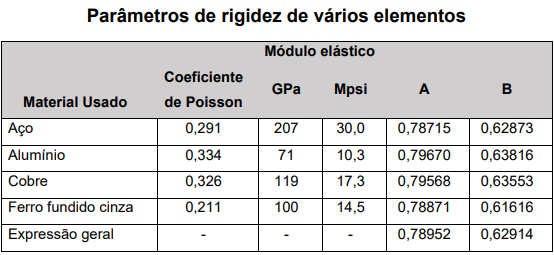
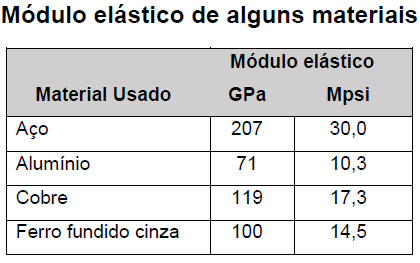
Finais 981526

diff --git a/sistema/interface.js b/sistema/interface.js
@@ -217,7 +217,7 @@ window.addEventListener("load", function () {
             /**
              * Aqui não entendi o que devo fazer para continuar...!
              */
-            __trocaSubDisplay("Selecione a espessura (tipo) da arruela");
+            __trocaSubDisplay("Selecione o tipo da arruela");
             __showHide("telaSelecaoTipoArruela");
             __showHide("telaSelecaoQtdArroelas");
 
@@ -298,14 +298,14 @@ window.addEventListener("load", function () {
                     if (calculo.diametro == tdp_m[i].diametro) {
                         for (let j = 0; j < tdp_m[i].estilo.length; j++) {
                             if (tdp_m[i].estilo[j] != null) {
-                                $("#select-tipo-porca").append("<option data-porca='" + JSON.stringify(tdp_m[i].estilo[j]) + "'>Estilo " + (j + 1) + " -> W:" + tdp_m[i].estilo[j].wPorca + "mm | H:" + tdp_m[i].estilo[j].hPorca + "mm</option>");
+                                $("#select-tipo-porca").append("<option data-porca='" + JSON.stringify(tdp_m[i].estilo[j]) + "'>Estilo " + (j + 1) + " -> W: " + tdp_m[i].estilo[j].wPorca + "mm | H: " + tdp_m[i].estilo[j].hPorca + "mm</option>");
                             }
                         }
                     }
                 }
                 break;
             case 'in':
-                __trocaSubDisplay("Confira os dados pré-selecionados na tabela padrão.");
+                __trocaSubDisplay("Confira as dimensões da porca");
                 __showHide("container-info-tipo-porca");
 
                 for (let i = 0; i < tdp_in.length; i++) {
@@ -395,7 +395,7 @@ window.addEventListener("load", function () {
         __trocaSubDisplay("Escolha a classe/resistência mínima de prova (Sp).");
 
         if (calculo.unidade == 'in') {
-            __trocaSubDisplay("Escolha a norma/especificação. <br> Escolha a classe /resistência mínima de prova (Sp).")
+            __trocaSubDisplay("Escolha a norma/especificação. | Escolha a classe /resistência mínima de prova (Sp).")
         }
 
         if (calculo.unidade == 'in' && calculo.planoResistencia == 'tabelada') {
@@ -451,7 +451,7 @@ window.addEventListener("load", function () {
 
     document.getElementById("btProsseguirCalculoFinal").addEventListener("click", function (event) {
 
-        __trocaSubDisplay("Resultados Finais");
+        __trocaSubDisplay("Resultado resumido");
         __showHide("telaCalculoFinal");
         __showHide("telaTipoConexao");
 
@@ -620,12 +620,13 @@ window.addEventListener("load", function () {
         if (calculo.unidade == 'm') {
             
 
-            $("#finalResumidoContainer").append("<strong>Comprimento mínimo do parafuso: </strong>" + resultL + "mm");
-            $("#finalResumidoContainer").append("<br><strong>Rigidez do parafuso: </strong>" + resultRigidez + "MN/m");
-            $("#finalResumidoContainer").append("<br><strong>Rigidez dos Membros: </strong>" + km + "MN/m");
-            $("#finalResumidoContainer").append("<br><strong>Fator de segurança ao escoamento: </strong>" + resultNp);
-            $("#finalResumidoContainer").append("<br><strong>Fator de segurança baseado na abertura da junta: </strong>" + resultNo);
-
+            $("#finalResumidoContainer").append("<strong>Comprimento mínimo do parafuso (L): </strong>" + resultL + "mm");
+            $("#finalResumidoContainer").append("<br><strong>Rigidez do parafuso (Kb): </strong>" + resultRigidez + "MN/m");
+            $("#finalResumidoContainer").append("<br><strong>Rigidez dos Membros (Km): </strong>" + km + "MN/m");
+            $("#finalResumidoContainer").append("<br><strong>Fator de segurança ao escoamento (Np): </strong>" + resultNp);
+            $("#finalResumidoContainer").append("<br><strong>Fator de segurança baseado na abertura da junta (No): </strong>" + resultNo);
+            
+            
 
             $("#finalCompletoDataContainer").append("<h4>Dados de entrada</h4>");
             $("#finalCompletoDataContainer").append("<strong>Sistema de unidades: </strong>" + resultUnidade);
@@ -633,16 +634,16 @@ window.addEventListener("load", function () {
             $("#finalCompletoDataContainer").append("<strong>Diâmetro do furo (df): </strong>" + calculo.furo + "mm<br>");
             $("#finalCompletoDataContainer").append("<strong>Área de tensão de tração do parafuso (At): </strong>" + calculo.AreaRosqueada + "mm²<br>");
             $("#finalCompletoDataContainer").append("<strong>W do parafuso: </strong>" + resultWparafuso + "mm<br>");
-            $("#finalCompletoDataContainer").append("<strong>W da porca: </strong>" + resultWporca + "mm<br>");
+            $("#finalCompletoDataContainer").append("<br><strong>W da porca: </strong>" + resultWporca + "mm<br>");
             $("#finalCompletoDataContainer").append("<strong>H da porca: </strong>" + resultHporca + "mm<br>");
-            $("#finalCompletoDataContainer").append("<strong>Quantidade de placas: </strong>" + calculo.qtdPlacas + "<br>");
+            $("#finalCompletoDataContainer").append("<br><strong>Quantidade de placas: </strong>" + calculo.qtdPlacas + "<br>");
             for (let i = 0; i < parseInt(calculo.qtdPlacas); i++) {
-                $("#finalCompletoDataContainer").append("<strong>PLACA </strong>" + (i + 1) + " <strong>TIPO:</strong> " + calculo.placa[i].tipo + " <strong>ESPESSURA: </strong>" + calculo.placa[i].espessura);
+                $("#finalCompletoDataContainer").append("<strong>Placa: </strong>" + (i + 1) + "<strong> | Módulo de elásticidade:</strong> " + calculo.placa[i].tipo + "GPa <strong> | Espessura: </strong>" + calculo.placa[i].espessura + "mm<br>");
             }
             $("#finalCompletoDataContainer").append("<br><strong>Posição da(s) arruela(s): </strong>" + resultposArruela);
             $("#finalCompletoDataContainer").append("<br><strong>Quantida de arruela: </strong>" + calculo.qtdArruelas);
             $("#finalCompletoDataContainer").append("<br><strong>Espessura total da(s) arruela(s): </strong>" + calculo.tipoArruela + "mm<br>");
-            $("#finalCompletoDataContainer").append("<strong>Quantidade de parafuso: </strong>" + calculo.quantidadeParafusos);
+            $("#finalCompletoDataContainer").append("<br><strong>Quantidade de parafuso: </strong>" + calculo.quantidadeParafusos);
             $("#finalCompletoDataContainer").append("<br><strong>Carga externa total de tração aplicada à junta (Ptotal): </strong>" + calculo.cargaExternaTotal + "N<br>");
             $("#finalCompletoDataContainer").append("<strong>Forma de obter o valor da resistência de prova: </strong>" + resultplanResist);
             $("#finalCompletoDataContainer").append("<br><strong>Resistência mínima de prova (Sp): </strong>" + resultSp + "MPa<br>");
@@ -660,25 +661,13 @@ window.addEventListener("load", function () {
             $("#finalCompletoDataContainer").append("<strong><br>Rigidez do parafuso (Kb): </strong>" + resultRigidez + "MN/m<br>");
 
             //Incluir os valores dos k(s), t(s), x(s) localizada na função de rigidez dos membros
-            $("#finalCompletoDataContainer").append("<br><strong>t1: </strong>" + t1 + "mm<br>");
-            $("#finalCompletoDataContainer").append("<strong>t2: </strong>" + t2 + "mm<br>");
-            $("#finalCompletoDataContainer").append("<strong>t3: </strong>" + t3);
-            $("#finalCompletoDataContainer").append("<br><strong>t4: </strong>" + t4);
-            $("#finalCompletoDataContainer").append("<br><strong>t5: </strong>" + t5);
             $("#finalCompletoDataContainer").append("<br><strong>tt: </strong>" + tt);
-            $("#finalCompletoDataContainer").append("<br><strong>x2: </strong>" + x2);
-            $("#finalCompletoDataContainer").append("<br><strong>x3: </strong>" + x3);
-            $("#finalCompletoDataContainer").append("<br><strong>x4: </strong>" + x4);
-            $("#finalCompletoDataContainer").append("<br><strong>D1: </strong>" + d1 + "mm");
-            $("#finalCompletoDataContainer").append("<br><strong>D2: </strong>" + d2 + "mm");
-            $("#finalCompletoDataContainer").append("<br><strong>D3: </strong>" + d3);
-            $("#finalCompletoDataContainer").append("<br><strong>D4: </strong>" + d4);
-            $("#finalCompletoDataContainer").append("<br><strong>D5: </strong>" + d5);
-            $("#finalCompletoDataContainer").append("<br><strong>k1: </strong>" + k1 + "MN/m");
-            $("#finalCompletoDataContainer").append("<br><strong>k2: </strong>" + k2 + "MN/m");
-            $("#finalCompletoDataContainer").append("<br><strong>k3: </strong>" + k3);
-            $("#finalCompletoDataContainer").append("<br><strong>k4: </strong>" + k4);
-            $("#finalCompletoDataContainer").append("<br><strong>k5: </strong>" + k5);
+            $("#finalCompletoDataContainer").append("<br><strong>t1: </strong>" + t1 + "mm" + "<strong> | x1: </strong>-" + "<strong> | D1: </strong>" + d1 + "mm" + "<strong> | K1: </strong>" + k1 + "MN/m");
+            $("#finalCompletoDataContainer").append("<br><strong>t2: </strong>" + t2 + "mm" + "<strong> | x2: </strong>" + x2 + "<strong> | D2: </strong>" + d2 + "mm" + "<strong> | K2: </strong>" + k2 + "MN/m");
+            $("#finalCompletoDataContainer").append("<br><strong>t3: </strong>" + t3 + "<strong> | x3: </strong>" + x3 + "<strong> | D3: </strong>" + d3 + "<strong> | K3: </strong>" + k3);
+            $("#finalCompletoDataContainer").append("<br><strong>t4: </strong>" + t4 + "<strong> | x4: </strong>" + x4 + "<strong> | D4: </strong>" + d4 + "<strong> | K4: </strong>" + k4);
+            $("#finalCompletoDataContainer").append("<br><strong>t5: </strong>" + t5 + "<strong> | x5: </strong>-" + "<strong> | D5: </strong>" + d5 + " | <strong> | K5: </strong>" + k5);
+
             $("#finalCompletoDataContainer").append("<br><strong>Rigidez dos Membros (Km): </strong>" + km + "MN/m");
             $("#finalCompletoDataContainer").append("<br><br><strong>Carga de prova (Fp): </strong>" + resultFp + "N");
             $("#finalCompletoDataContainer").append("<br><strong>Pré-carga (Fi): </strong>" + resultFi + "N");
@@ -693,53 +682,59 @@ window.addEventListener("load", function () {
 
 
 
-            $("#finalResumidoContainer").append("<strong>Comprimento mínimo do parafuso: </strong>" + resultL + "in");
-            $("#finalResumidoContainer").append("<br><strong>Rigidez do parafuso: </strong>" + resultRigidez + "Mlbf/in");
-            $("#finalResumidoContainer").append("<br><strong>Rigidez dos Membros: " + km + "Mlbf/in");
-            $("#finalResumidoContainer").append("<br><strong>Fator de segurança ao escoamento: </strong>" + resultNp);
-            $("#finalResumidoContainer").append("<br><strong>Fator de segurança baseado na abertura da junta: " + resultNo);
+            $("#finalResumidoContainer").append("<strong>Comprimento mínimo do parafuso (L): </strong>" + resultL + "in");
+            $("#finalResumidoContainer").append("<br><strong>Rigidez do parafuso (Kb): </strong>" + resultRigidez + "Mlbf/in");
+            $("#finalResumidoContainer").append("<br><strong>Rigidez dos Membros (Km): </strong>" + km + "Mlbf/in");
+            $("#finalResumidoContainer").append("<br><strong>Fator de segurança ao escoamento (Np): </strong>" + resultNp);
+            $("#finalResumidoContainer").append("<br><strong>Fator de segurança baseado na abertura da junta (No): </strong>" + resultNo);
 
 
             $("#finalCompletoDataContainer").append("<h4>Dados de entrada</h4>");
-            $("#finalCompletoDataContainer").append("<br><strong>Sistema de unidades: " + resultUnidade + "</strong>");
-            $("#finalCompletoDataContainer").append("<br><strong>Diâmetro do parafuso (d): " + calculo.diametro + "in</strong>");
-            $("#finalCompletoDataContainer").append("<br><strong>Diâmetro do furo (df): " + calculo.furo + "in</strong>");
-            $("#finalCompletoDataContainer").append("<br><strong>Área de tensão de tração do parafuso (At): " + calculo.AreaRosqueada + "in²</strong>");
-            $("#finalCompletoDataContainer").append("<br><strong>W do parafuso: " + resultWparafuso + "in</strong>");
-            $("#finalCompletoDataContainer").append("<br><strong>W da porca: " + resultWporca + "in </strong>");
-            $("#finalCompletoDataContainer").append("<br><strong>H da porca: " + resultHporca + "in</strong>");
-            $("#finalCompletoDataContainer").append("<br><strong>Quantidade de placas: " + calculo.qtdPlacas + "</strong>");
+            $("#finalCompletoDataContainer").append("<strong>Sistema de unidades: </strong>" + resultUnidade);
+            $("#finalCompletoDataContainer").append("<br><strong>Diâmetro do parafuso (d): </strong>" + calculo.diametro + "in");
+            $("#finalCompletoDataContainer").append("<br><strong>Diâmetro do furo (df): </strong>" + calculo.furo + "in");
+            $("#finalCompletoDataContainer").append("<br><strong>Área de tensão de tração do parafuso (At): </strong>" + calculo.AreaRosqueada + "in²");
+            $("#finalCompletoDataContainer").append("<br><strong>W do parafuso: </strong>" + resultWparafuso + "in");
+            $("#finalCompletoDataContainer").append("<br><br><strong>W da porca: </strong>" + resultWporca + "in");
+            $("#finalCompletoDataContainer").append("<br><strong>H da porca: </strong>" + resultHporca + "in");
+            $("#finalCompletoDataContainer").append("<br><br><strong>Quantidade de placas: </strong>" + calculo.qtdPlacas + "<br>");
             for (let i = 0; i < parseInt(calculo.qtdPlacas); i++) {
-                $("#finalCompletoDataContainer").append("<br><strong>PLACA </strong>" + (i + 1) + " <strong>TIPO:</strong> " + calculo.placa[i].tipo + " <strong>ESPESSURA: </strong>" + calculo.placa[i].espessura);
+                $("#finalCompletoDataContainer").append("<strong>Placa: </strong>" + (i + 1) + "<strong> | Módulo de elásticidade:</strong> " + calculo.placa[i].tipo + "Mpsi <strong> | Espessura: </strong>" + calculo.placa[i].espessura + "in<br>");
             }
-            $("#finalCompletoDataContainer").append("<br><strong>Posição da(s) arruela(s): " + resultposArruela + "</strong>");
-            $("#finalCompletoDataContainer").append("<br><strong>Quantida de arruela: " + calculo.qtdArruelas + "</strong>");
-            $("#finalCompletoDataContainer").append("<br><strong>Espessura total da(s) arruela(s): " + calculo.tipoArruela + "in</strong>");
-            $("#finalCompletoDataContainer").append("<br><strong>Quantidade de parafuso: " + calculo.quantidadeParafusos + "</strong>");
-            $("#finalCompletoDataContainer").append("<br><strong>Carga externa total de tração aplicada à junta (Ptotal): " + calculo.cargaExternaTotal + "Kips</strong>");
-            $("#finalCompletoDataContainer").append("<br><strong>Forma de obter o valor da resistência de prova: " + resultplanResist + "</strong>");
-            $("#finalCompletoDataContainer").append("<br><strong>Resistência mínima de prova (Sp): " + resultSp + "Kpsi</strong>");
-            $("#finalCompletoDataContainer").append("<br><strong>Tipo de conexão utilizada: " + resultplanLiga + "</strong>");
+            $("#finalCompletoDataContainer").append("<br><strong>Posição da(s) arruela(s): </strong>" + resultposArruela);
+            $("#finalCompletoDataContainer").append("<br><strong>Quantida de arruela: </strong>" + calculo.qtdArruelas);
+            $("#finalCompletoDataContainer").append("<br><strong>Espessura total da(s) arruela(s): </strong>" + calculo.tipoArruela + "in");
+            $("#finalCompletoDataContainer").append("<br><br><strong>Quantidade de parafuso: </strong>" + calculo.quantidadeParafusos);
+            $("#finalCompletoDataContainer").append("<br><strong>Carga externa total de tração aplicada à junta (Ptotal): </strong>" + calculo.cargaExternaTotal + "Kips");
+            $("#finalCompletoDataContainer").append("<br><strong>Forma de obter o valor da resistência de prova: </strong>" + resultplanResist);
+            $("#finalCompletoDataContainer").append("<br><strong>Resistência mínima de prova (Sp): </strong>" + resultSp + "Kpsi");
+            $("#finalCompletoDataContainer").append("<br><strong>Tipo de conexão utilizada: </strong>" + resultplanLiga);
 
             //dados de saída
-            $("#finalCompletoDataContainer").append("<h4>Dados de saída</h4>");
-            $("#finalCompletoDataContainer").append("<br><strong>Comprimento mínimo do parafuso (L): " + resultL + "in</strong>");
-            $("#finalCompletoDataContainer").append("<br><strong>Comprimento rosqueado total do parafuso (Lt): " + resultCompRosque + "in</strong>");
-            $("#finalCompletoDataContainer").append("<br><strong>Comprimento de porção útil não rosqueada (ld): " + resultCompUtil_N_Rosqueado + "in</strong>");
-            $("#finalCompletoDataContainer").append("<br><strong>Espessura do material entre a face do parafuso e a face da porca (l): " + resultParafusoMenosPorca + "in</strong>");
-            $("#finalCompletoDataContainer").append("<br><strong>Comprimento de porção rosqueada (lt): " + resultCompUtilRosque + "in</strong>");
-            $("#finalCompletoDataContainer").append("<br><strong>Área da porção não rosqueada (Ad): " + resultAreaDaPorção_N_Rosqueada + "in²</strong>");
-            $("#finalCompletoDataContainer").append("<br><strong>Modulo de elásticidade utilizado para o cálculo da rigidez parafuso (E): " + resultEdeKb + "</strong>");
-            $("#finalCompletoDataContainer").append("<br><strong>Rigidez do parafuso (Kb): " + resultRigidez + "Mlbf/in</strong>");
+            $("#finalCompletoDataContainer").append("<strong><h4>Dados de saída</h4></strong>");
+            $("#finalCompletoDataContainer").append("<strong>Comprimento mínimo do parafuso (L): </strong>" + resultL + "in");
+            $("#finalCompletoDataContainer").append("<br><strong>Comprimento rosqueado total do parafuso (Lt): </strong>" + resultCompRosque + "in");
+            $("#finalCompletoDataContainer").append("<br><strong>Comprimento de porção útil não rosqueada (ld): </strong>" + resultCompUtil_N_Rosqueado + "in");
+            $("#finalCompletoDataContainer").append("<br><strong>Espessura do material entre a face do parafuso e a face da porca (l): </strong>" + resultParafusoMenosPorca + "in");
+            $("#finalCompletoDataContainer").append("<br><strong>Comprimento de porção rosqueada (lt): </strong>" + resultCompUtilRosque + "in");
+            $("#finalCompletoDataContainer").append("<br><strong>Área da porção não rosqueada (Ad): </strong>" + resultAreaDaPorção_N_Rosqueada + "in²");
+            $("#finalCompletoDataContainer").append("<br><strong>Modulo de elásticidade utilizado para o cálculo da rigidez parafuso (E): </strong>" + resultEdeKb);
+            $("#finalCompletoDataContainer").append("<br><strong>Rigidez do parafuso (Kb): </strong>" + resultRigidez + "Mlbf/in");
 
+            $("#finalCompletoDataContainer").append("<br><br><strong>tt: </strong>" + tt);
+            $("#finalCompletoDataContainer").append("<br><strong>t1: </strong>" + t1 + "in" + "<strong> | x1: </strong>-" + "<strong> | D1: </strong>" + d1 + "in" + "<strong> | K1: </strong>" + k1 + "Mlbf/in");
+            $("#finalCompletoDataContainer").append("<br><strong>t2: </strong>" + t2 + "in" + "<strong> | x2: </strong>" + x2 + "<strong> | D2: </strong>" + d2 + "in" + "<strong> | K2: </strong>" + k2 + "Mlbf/in");
+            $("#finalCompletoDataContainer").append("<br><strong>t3: </strong>" + t3 + "<strong> | x3: </strong>" + x3 + "<strong> | D3: </strong>" + d3 + "<strong> | K3: </strong>" + k3);
+            $("#finalCompletoDataContainer").append("<br><strong>t4: </strong>" + t4 + "<strong> | x4: </strong>" + x4 + "<strong> | D4: </strong>" + d4 + "<strong> | K4: </strong>" + k4);
+            $("#finalCompletoDataContainer").append("<br><strong>t5: </strong>" + t5 + "<strong> | x5: </strong>-" + "<strong> | D5: </strong>" + d5 + " | <strong> | K5: </strong>" + k5);
             //Incluir os valores dos k(s), t(s), x(s) localizada na função de rigidez dos membros
-            $("#finalCompletoDataContainer").append("<br><strong>Rigidez dos Membros (Km): " + km + "Mlbf/in</strong>");
-            $("#finalCompletoDataContainer").append("<br><strong>Carga de prova (Fp): " + resultFp + "Kip</strong>");
-            $("#finalCompletoDataContainer").append("<br><strong>Pré-carga (Fi): " + resultFi + "Kip</strong>");
-            $("#finalCompletoDataContainer").append("<br><strong>Fração da carga externa P carregada pelo parafuso (C): " + resultFracaoCargaC + "</strong>");
-            $("#finalCompletoDataContainer").append("<br><strong>Carga externa de tração por parafuso (Pparcial): " + resultPp + "Kip</strong>");
-            $("#finalCompletoDataContainer").append("<br><strong>Fator de segurança ao escoamento (Np): " + resultNp + "</strong>");
-            $("#finalCompletoDataContainer").append("<br><strong>Fator de segurança baseado na abertura da junta (No): " + resultNo + "</strong>");
+            $("#finalCompletoDataContainer").append("<br><strong>Rigidez dos Membros (Km): </strong>" + km + "Mlbf/in");
+            $("#finalCompletoDataContainer").append("<br><br><strong>Carga de prova (Fp): </strong>" + resultFp + "Kip");
+            $("#finalCompletoDataContainer").append("<br><strong>Pré-carga (Fi): </strong>" + resultFi + "Kip");
+            $("#finalCompletoDataContainer").append("<br><strong>Fração da carga externa P carregada pelo parafuso (C): </strong>" + resultFracaoCargaC);
+            $("#finalCompletoDataContainer").append("<br><strong>Carga externa de tração por parafuso (Pparcial): </strong>" + resultPp + "Kip");
+            $("#finalCompletoDataContainer").append("<br><strong>Fator de segurança ao escoamento (Np): </strong>" + resultNp);
+            $("#finalCompletoDataContainer").append("<br><strong>Fator de segurança baseado na abertura da junta (No): </strong>" + resultNo);
         }
 
 

diff --git a/index.html b/index.html
@@ -30,7 +30,7 @@
                         <br>
                         <img src="./img/logo.jpeg" class="logoImgIntro">
                         <br>
-                        <p>A seguir, informe os dados para realizar o cálculo</p>
+                        <p>Antes de realizar os cálculos, clique no botão <strong>"informações"</strong> e leia o <strong>tutorial</strong>.</p>
                     </div>
                    
                     <h3 class="uk-card-title uk-text-center" id="displayInfoSubTitle"></h3>
@@ -60,8 +60,8 @@
                             <li onclick="__set().qtdPlacas(2);"><a href="#">Duas</a></li>
                         </ul>
                         <ul class="uk-switcher uk-margin">
-                            <li>O cálculo será realizado com uma placa.</li>
-                            <li>O cálculo será realizado com duas placas.</li>
+                            <li>O cálculo será realizado com <strong>uma placa</strong>.</li>
+                            <li>O cálculo será realizado com <strong>duas placas</strong>.</li>
                         </ul>
                         <button class="uk-button uk-button-default" id="btProsseguirDiametroParafuso">Prosseguir</button>
                     </div>
@@ -372,7 +372,7 @@
 
             </div>
             <div>
-                <a href="#offcanvas-slide" class="uk-button uk-button-primary uk-hidden" id="btVerMedidas" uk-toggle>Informações</a>
+                <a href="#offcanvas-slide" class="uk-button uk-button-primary uk-hidden" id="btVerMedidas" uk-toggle>informações</a>
                 <br>
                 <br>
             </div>
@@ -398,19 +398,19 @@
                 <div id="btnsBottomContainerMetrico" class="uk-hidden">
                         <ul class="uk-nav uk-nav-default">
                             <li class="uk-nav-header">Tabelas</li>
-                            <li ><a href="./img/tableaSistemaMetrico.png">Medidas dos membros no Sistema Métrico</a></li>
+                            <li ><a href="./img/tableaSistemaMetrico.png">Dimensões dos componentes da junta aparafusada - Sistema Métrico</a></li>
                             <li ><a href="./img/tabelaMetrico.png">Especificações do Sistema Métrico</a></li>
-                            <li ><a href="./img/tabelaRigidezVariosElementos.png">Rigidez de diversos elementos</a></li>
+                            <li ><a href="./img/tabelaRigidezVariosElementos.png">Módulo elástico de alguns materiais</a></li>
                         </ul>
                 </div>
                 
                 <div id="btnsBottomContainerIngles" class="uk-hidden">
                     <ul class="uk-nav uk-nav-default">
                         <li class="uk-nav-header">Tabelas</li>
-                        <li ><a href="./img/tableaSistemaIngles.png">Medida dos membros no Sistema Inglês</a></li>
+                        <li ><a href="./img/tableaSistemaIngles.png">Dimensões dos componentes da junta aparafusada - Sistema Inglês</a></li>
                         <li ><a href="./img/tabelaASTM.png">Especificações ASTM</a></li>
                         <li ><a href="./img/tabelaSAE.png">Especificações SAE</li>
-                        <li ><a href="./img/tabelaRigidezVariosElementos.png">Rigidez de diversos elementos</a></li>
+                        <li ><a href="./img/tabelaRigidezVariosElementos.png">Módulo elástico de alguns materiais</a></li>
                     </ul>
                 </div>
         
